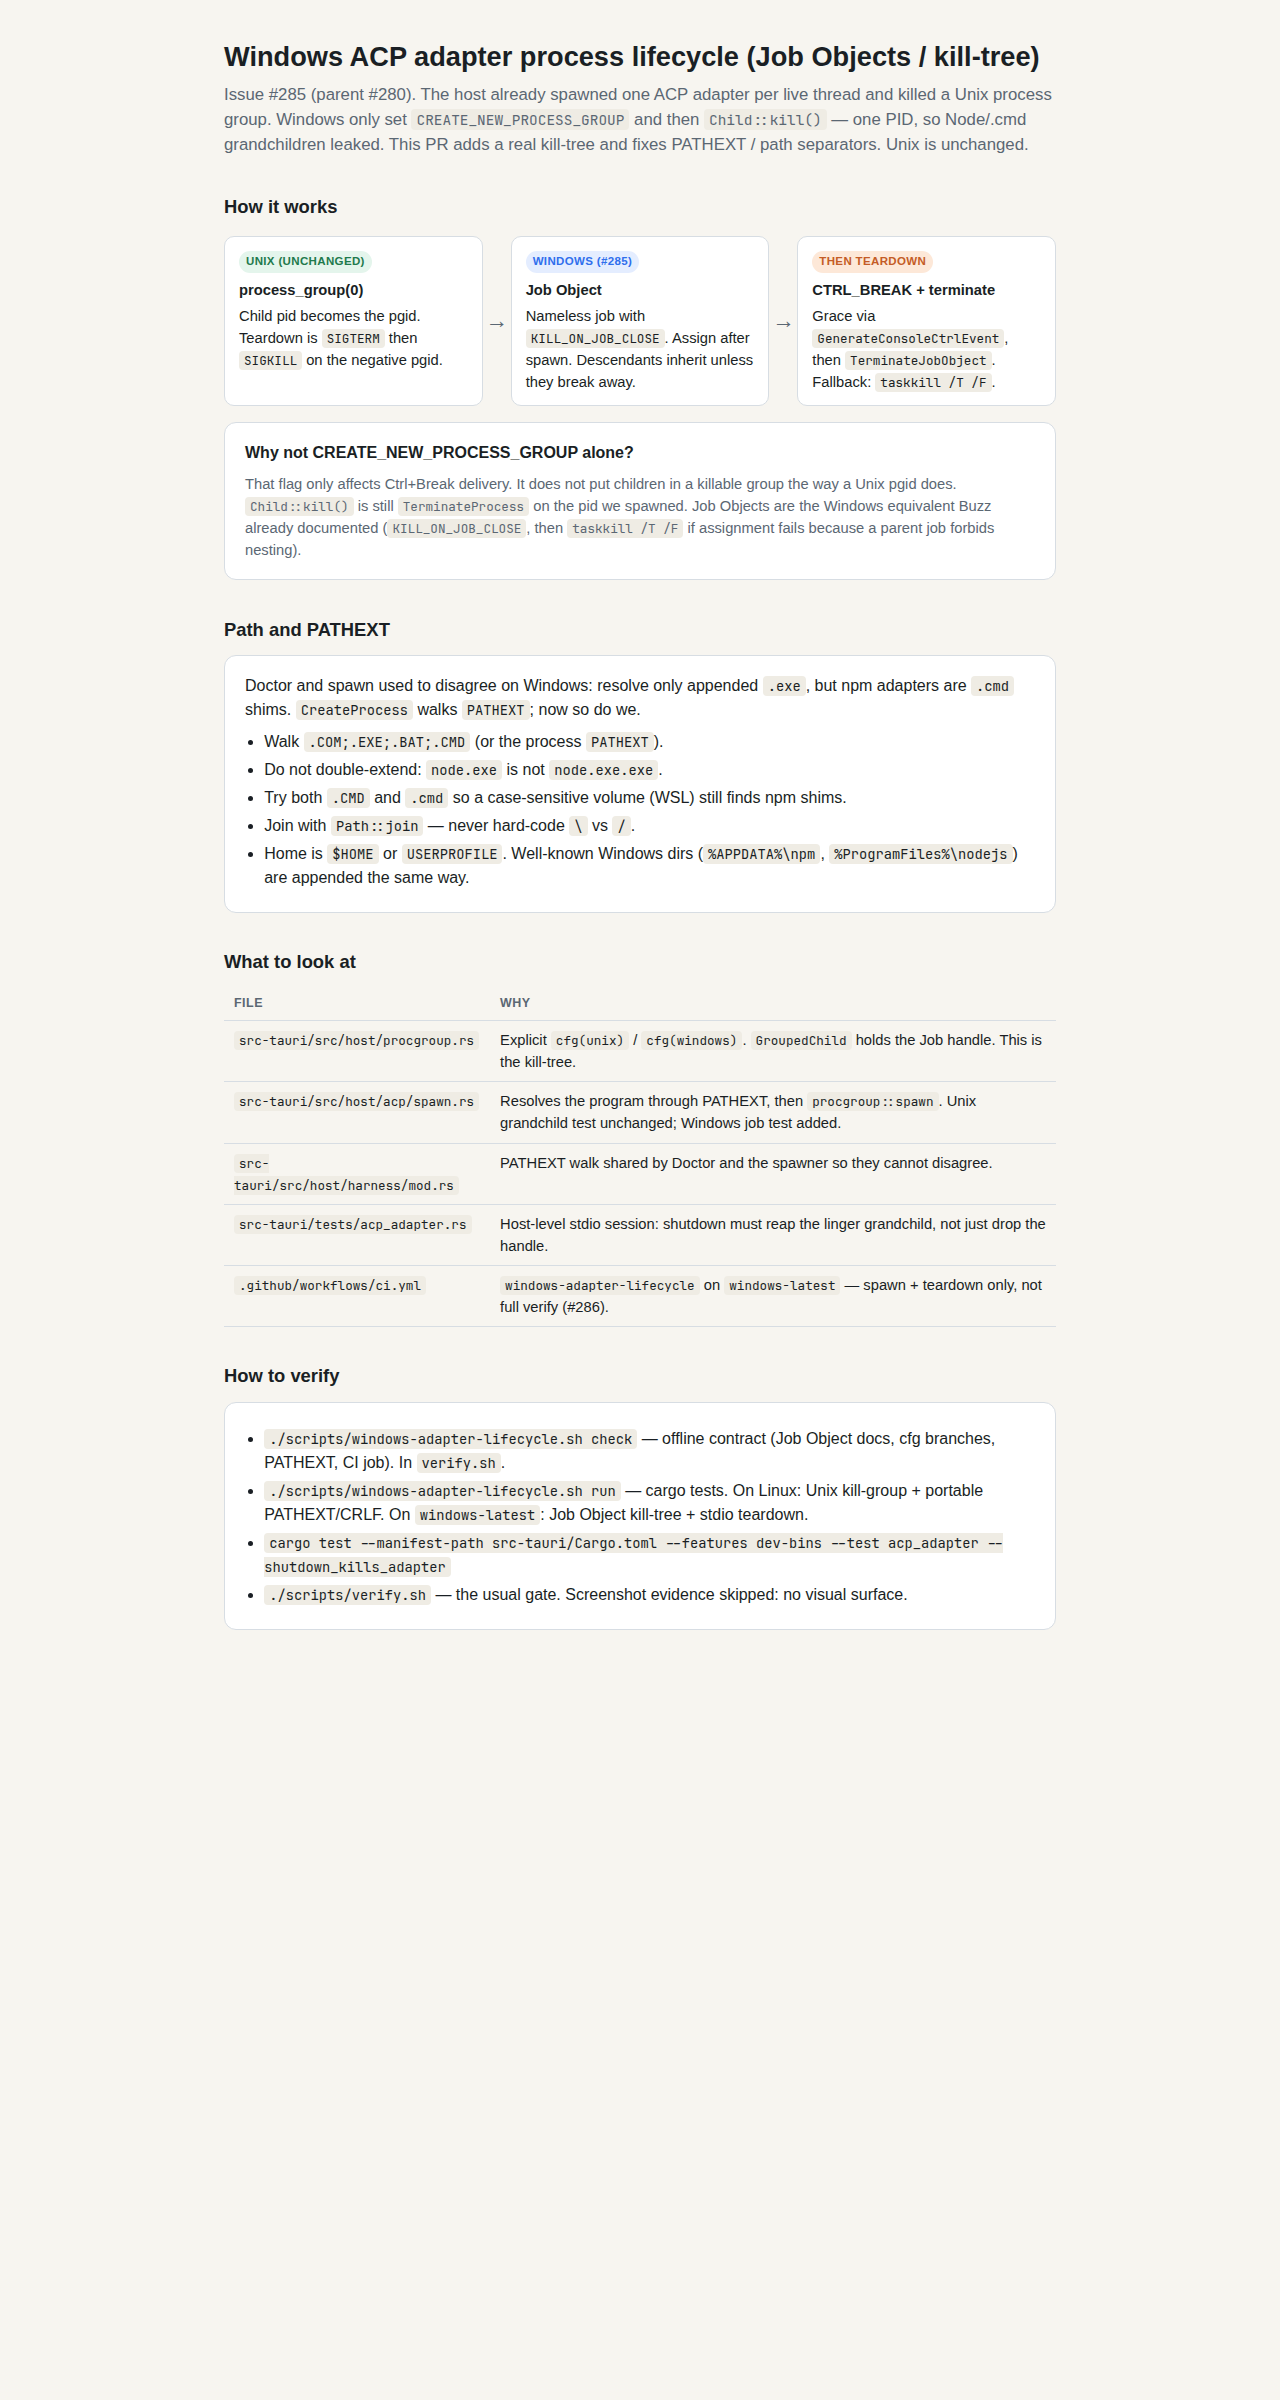
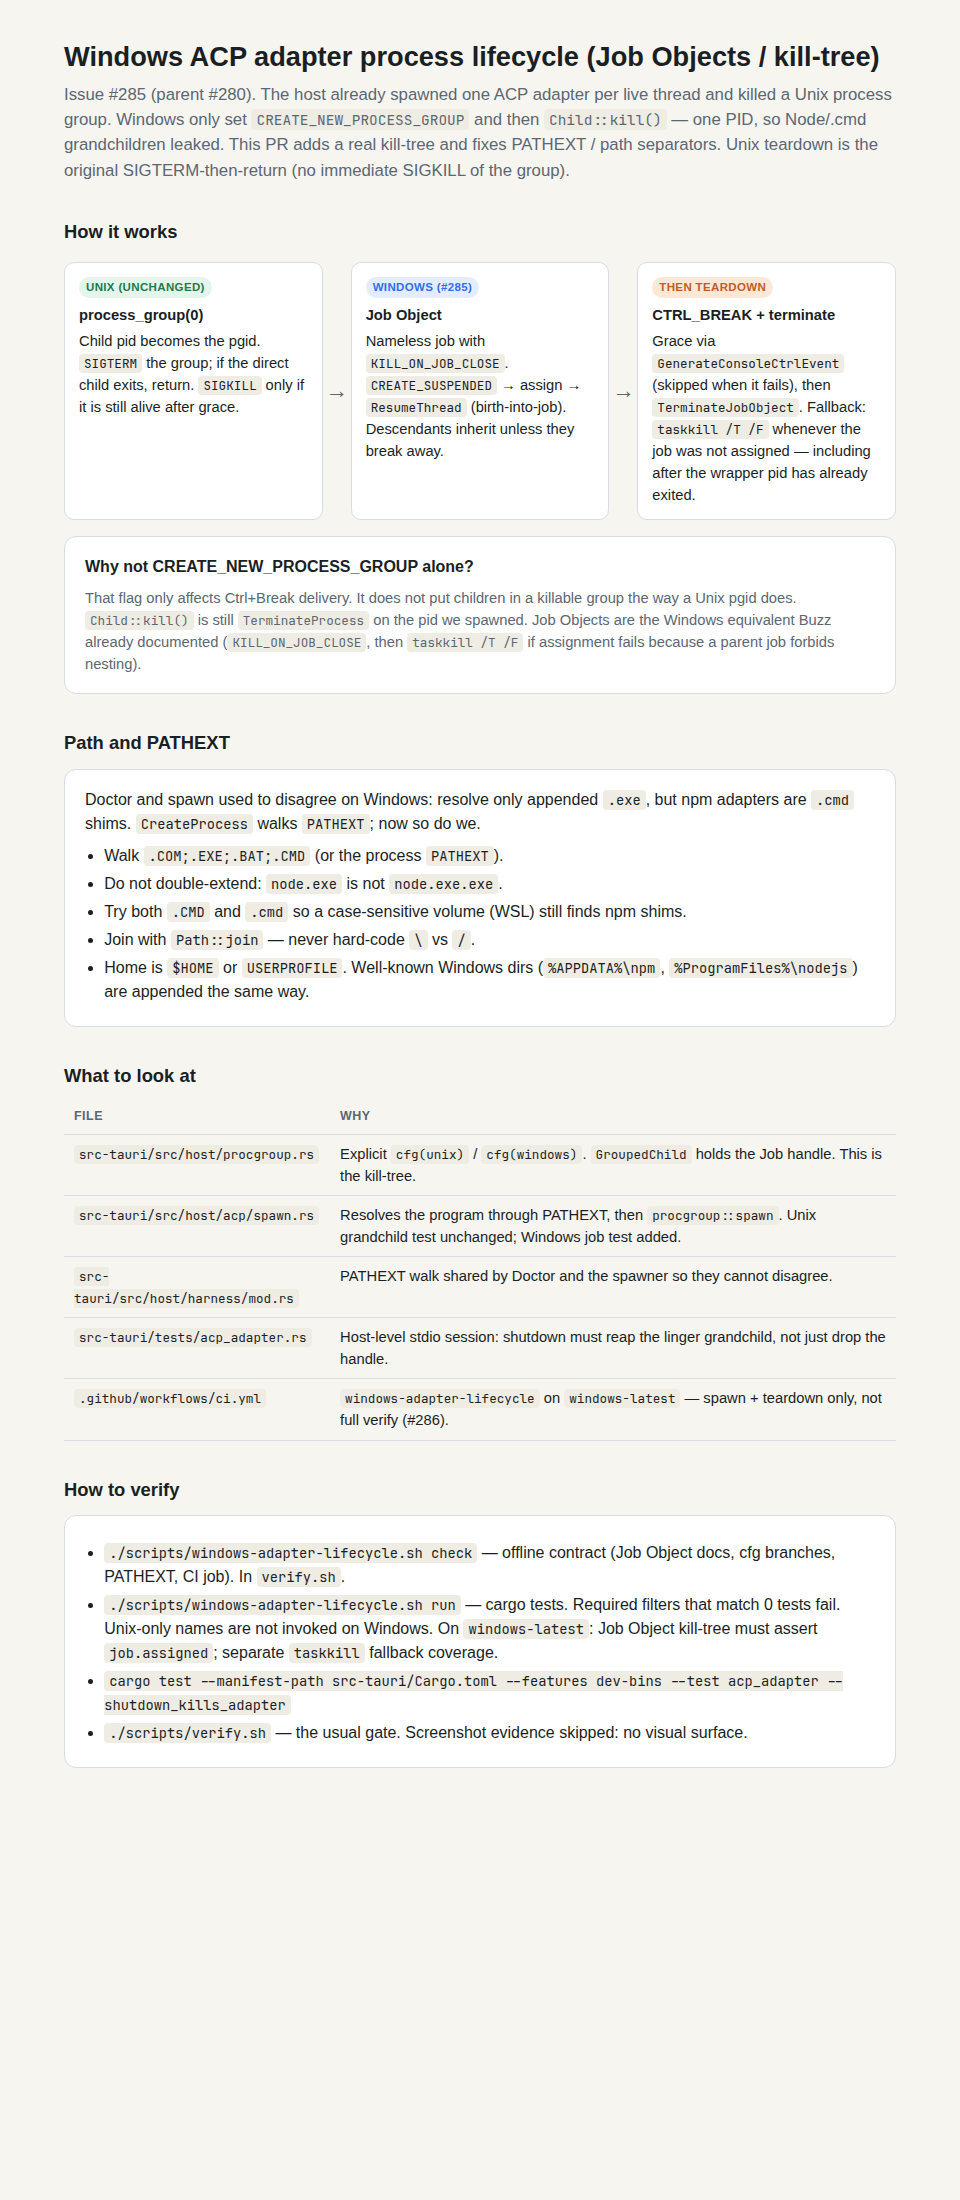
Assert the grandchild is in the Job Object, not only assigned
QueryInformationJobObject before kill so kill_job_reaps_grandchild
cannot pass unless the tree is actually in the job. CREATE_BREAKAWAY
helps nested CI jobs. Unix SIGTERM early-return is documented; Doctor
timeout reaps grandchildren on Windows too.

Changed region(s): [[0.0625, 0.0, 0.9062, 0.8036], [0.5938, 0.7727, 0.625, 0.8036]]

diff --git a/docs/img/pr-293-windows-acp/walkthrough.html b/docs/img/pr-293-windows-acp/walkthrough.html
@@ -92,8 +92,9 @@
       <div class="box">
         <span class="tag unix">Unix (unchanged)</span>
         <strong>process_group(0)</strong>
-        Child pid becomes the pgid. Teardown is <code>SIGTERM</code> then
-        <code>SIGKILL</code> on the negative pgid.
+        Child pid becomes the pgid. <code>SIGTERM</code> the group; if the
+        direct child exits, return. <code>SIGKILL</code> only if it is still
+        alive after grace.
       </div>
       <div class="arrow">→</div>
       <div class="box">

diff --git a/src-tauri/src/host/procgroup.rs b/src-tauri/src/host/procgroup.rs
@@ -7,8 +7,10 @@
 //! ever reap it (`docs/research/app-shell/process-architecture.md`).
 //!
 //! **Unix:** `process_group(0)` so the child's pid becomes its pgid, then
-//! `SIGTERM` / `SIGKILL` the negative pgid. Unchanged from the original
-//! adapter layer (#10).
+//! `SIGTERM` the negative pgid. If the direct child exits, return — the rest
+//! of the group already got SIGTERM and may finish. `SIGKILL` only if the
+//! parent is still alive after grace. Same as the original adapter layer
+//! (#10); #285 must not harden this into an immediate group SIGKILL.
 //!
 //! **Windows (#285):** a Job Object with `JOB_OBJECT_LIMIT_KILL_ON_JOB_CLOSE`,
 //! plus `CREATE_NEW_PROCESS_GROUP` so a `CTRL_BREAK` can be the grace signal.
@@ -70,6 +72,12 @@ impl GroupedChild {
         self.job.assign_error()
     }
 
+    /// True when `pid` is listed on our Job Object right now.
+    #[cfg(all(test, windows))]
+    pub(crate) fn job_contains(&self, pid: u32) -> bool {
+        self.job.contains_pid(pid)
+    }
+
     /// Consume the child after it has exited, keeping the Windows job
     /// handle alive until `wait` returns so `KILL_ON_JOB_CLOSE` cannot
     /// race the reaper.
@@ -109,7 +117,10 @@ fn own_group(cmd: &mut Command) {
         // node grandchild can be born outside the job. `Command` does not
         // expose the primary thread or `PROC_THREAD_ATTRIBUTE_JOB_LIST`.
         const CREATE_SUSPENDED: u32 = 0x00000004;
-        cmd.creation_flags(CREATE_NEW_PROCESS_GROUP | CREATE_SUSPENDED);
+        // Leave a parent job (GHA "orphan cleanup") when that job allows
+        // breakaway, so ours is not a nested assign that CI forbids.
+        const CREATE_BREAKAWAY_FROM_JOB: u32 = 0x01000000;
+        cmd.creation_flags(CREATE_NEW_PROCESS_GROUP | CREATE_SUSPENDED | CREATE_BREAKAWAY_FROM_JOB);
     }
 
     #[cfg(not(any(unix, windows)))]
@@ -270,8 +281,9 @@ mod windows_job {
         PROCESSENTRY32W, TH32CS_SNAPPROCESS, TH32CS_SNAPTHREAD, THREADENTRY32,
     };
     use windows_sys::Win32::System::JobObjects::{
-        AssignProcessToJobObject, CreateJobObjectW, JobObjectExtendedLimitInformation,
-        SetInformationJobObject, TerminateJobObject, JOBOBJECT_EXTENDED_LIMIT_INFORMATION,
+        AssignProcessToJobObject, CreateJobObjectW, JobObjectBasicProcessIdList,
+        JobObjectExtendedLimitInformation, QueryInformationJobObject, SetInformationJobObject,
+        TerminateJobObject, JOBOBJECT_EXTENDED_LIMIT_INFORMATION,
         JOB_OBJECT_LIMIT_KILL_ON_JOB_CLOSE,
     };
     use windows_sys::Win32::System::Threading::{
@@ -372,6 +384,41 @@ mod windows_job {
             }
             self.assigned = true;
             Ok(())
+        }
+
+        #[cfg(test)]
+        pub(super) fn contains_pid(&self, pid: u32) -> bool {
+            if !self.assigned || self.is_empty() {
+                return false;
+            }
+            #[repr(C)]
+            struct PidList {
+                assigned: u32,
+                in_list: u32,
+                pids: [usize; 64],
+            }
+            // SAFETY: query-only; buffer is ours and sized for a typical
+            // adapter tree (shim + node + a few helpers).
+            unsafe {
+                let mut list = PidList {
+                    assigned: 0,
+                    in_list: 0,
+                    pids: [0; 64],
+                };
+                let mut needed = 0u32;
+                let ok = QueryInformationJobObject(
+                    self.handle,
+                    JobObjectBasicProcessIdList,
+                    (&mut list as *mut PidList).cast(),
+                    std::mem::size_of::<PidList>() as u32,
+                    &mut needed,
+                );
+                if ok == FALSE {
+                    return false;
+                }
+                let n = list.in_list.min(64) as usize;
+                list.pids[..n].iter().any(|p| *p as u32 == pid)
+            }
         }
 
         /// CTRL_BREAK (grace), then `TerminateJobObject` or `taskkill /T /F`.

diff --git a/src-tauri/src/host/harness/doctor.rs b/src-tauri/src/host/harness/doctor.rs
@@ -1374,6 +1374,53 @@ mod tests {
         );
     }
 
+    #[cfg(windows)]
+    #[test]
+    fn a_probe_that_times_out_takes_its_grandchildren_with_it() {
+        let dir = tempfile::tempdir().unwrap();
+        let pidfile = dir.path().join("grand.pid");
+        let script = dir.path().join("grand.ps1");
+        std::fs::write(
+            &script,
+            format!(
+                "$info = New-Object System.Diagnostics.ProcessStartInfo\n\
+                 $info.FileName = 'ping.exe'\n\
+                 $info.Arguments = '-n 120 127.0.0.1'\n\
+                 $info.UseShellExecute = $false\n\
+                 $info.CreateNoWindow = $true\n\
+                 $p = [System.Diagnostics.Process]::Start($info)\n\
+                 Set-Content -LiteralPath '{}' -Value $p.Id\n\
+                 Start-Sleep -Seconds 120\n",
+                pidfile.display()
+            ),
+        )
+        .unwrap();
+
+        let run = SystemProbe.run_until(
+            "powershell",
+            &[
+                "-NoProfile".into(),
+                "-ExecutionPolicy".into(),
+                "Bypass".into(),
+                "-File".into(),
+                script.display().to_string(),
+            ],
+            Duration::from_millis(2500),
+        );
+        assert_eq!(run, ProbeRun::TimedOut);
+
+        let grandchild: u32 = std::fs::read_to_string(&pidfile)
+            .expect("the probe's grandchild wrote its pid")
+            .trim()
+            .parse()
+            .expect("a pid");
+        std::thread::sleep(Duration::from_millis(200));
+        assert!(
+            !crate::host::procgroup::process_alive(grandchild),
+            "grandchild {grandchild} outlived the probe that started it"
+        );
+    }
+
     /// Serial probing costs the sum of every vendor CLI's latency. With one
     /// slow CLI per card, a serial run of the catalog would take at least
     /// `cards * delay`; this asserts the whole sweep costs about one delay.

diff --git a/src-tauri/src/host/acp/spawn.rs b/src-tauri/src/host/acp/spawn.rs
@@ -292,6 +292,11 @@ mod tests {
                 .job_assign_error()
                 .unwrap_or("no error recorded")
         );
+        assert!(
+            spawned.child.job_contains(grandchild),
+            "grandchild {grandchild} was not in the Job Object — \
+             spawn-then-assign lost it, or it broke away"
+        );
 
         terminate_process_group(&mut spawned.child);
         thread::sleep(Duration::from_millis(200));

diff --git a/docs/requirements/harness-adapter-layer.md b/docs/requirements/harness-adapter-layer.md
@@ -29,10 +29,12 @@ host-owned "thin LLM + MCP" runtime. This module is that one runtime.
 2. The host owns the subprocess tree so Quit / Kill can terminate the
    harness and any children it spawned in one shot
    (`src-tauri/src/host/procgroup.rs`). Unix: `process_group(0)` and
-   `SIGTERM` / `SIGKILL` the negative pgid. Windows (#285): a Job Object
-   with `JOB_OBJECT_LIMIT_KILL_ON_JOB_CLOSE`, `CREATE_NEW_PROCESS_GROUP`
-   for a `CTRL_BREAK` grace, and `taskkill /T /F` if the process cannot
-   be assigned to a job. Command lookup walks `PATHEXT` so `.cmd` npm
+   `SIGTERM` the negative pgid; `SIGKILL` only if the direct child is
+   still alive after grace. Windows (#285): create `CREATE_SUSPENDED`,
+   assign to a Job Object with `JOB_OBJECT_LIMIT_KILL_ON_JOB_CLOSE`, then
+   resume. `CREATE_NEW_PROCESS_GROUP` is the `CTRL_BREAK` grace only.
+   `taskkill /T /F` runs whenever assign failed, even if the wrapper pid
+   already exited. Command lookup walks `PATHEXT` so `.cmd` npm
    shims resolve the same way `CreateProcess` would.
 3. Subprocess stderr is captured to host logs (`src-tauri/src/host/log.rs`)
    for diagnosability, not silently dropped or mixed into stdout.

diff --git a/docs/research/app-shell/process-architecture.md b/docs/research/app-shell/process-architecture.md
@@ -81,10 +81,14 @@ kill the adapter and keep the `sessionId` for resume. That policy belongs
 to session-lifecycle; the shell just has to be able to kill a PGID.
 
 On Unix, spawn adapters in their **own process group** and kill the group
-(Buzz `runtime.rs` does this). On Windows (#285), assign each adapter to a
-Job Object with `JOB_OBJECT_LIMIT_KILL_ON_JOB_CLOSE` (and
-`CREATE_NEW_PROCESS_GROUP` for a `CTRL_BREAK` grace); if assignment fails,
-`taskkill /T /F`. Otherwise `claude` grandchildren survive JaBot and hold
+(Buzz `runtime.rs` does this). SIGTERM the negative pgid; if the direct
+child exits, return — do not SIGKILL a group that already accepted
+SIGTERM. On Windows (#285), create each adapter `CREATE_SUSPENDED`, assign
+it to a Job Object with `JOB_OBJECT_LIMIT_KILL_ON_JOB_CLOSE`, then resume
+(so the first grandchild cannot be born outside the job).
+`CREATE_NEW_PROCESS_GROUP` is only a `CTRL_BREAK` grace, not a kill-tree.
+If assignment fails, `taskkill /T /F` runs even when the pid we spawned
+has already exited. Otherwise `claude` grandchildren survive JaBot and hold
 files/ports. This is a host concern, not a UI concern.
 
 ## Sidecar vs PATH spawn
